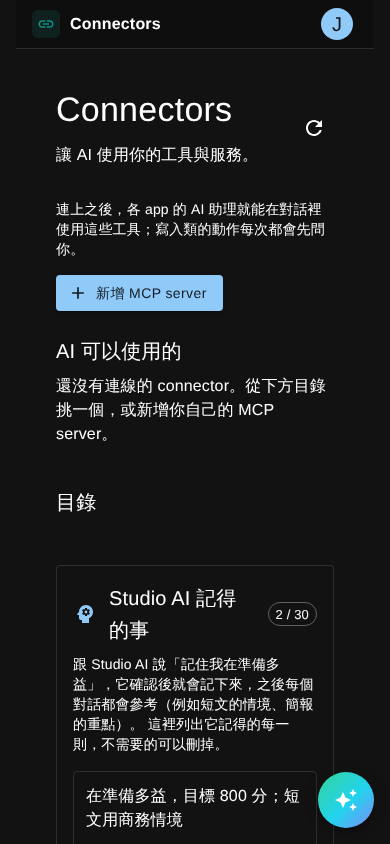
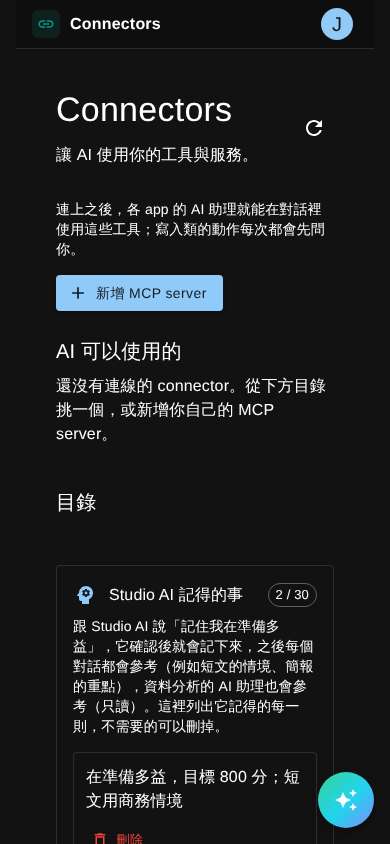
fix: 資料分析 DI 測試補上 IAssistantMemoryService；/connectors 記憶區塊手機標題一行、說明提到資料分析只讀
Claude-Session: https://claude.ai/code/session_01N7G4mfnTNvf894xL2QRhrW

Changed region(s): [[0.1846, 0.6777, 0.8308, 1.0], [0.7077, 0.8934, 0.7692, 0.955]]

diff --git a/jackyaiapp.client/src/Connectors/MemorySection/index.tsx b/jackyaiapp.client/src/Connectors/MemorySection/index.tsx
@@ -10,6 +10,11 @@ import {
 } from '@/apis/assistantMemoryApis';
 import { getApiErrorMessage, getCaughtErrorMessage } from '@/apis/utils/errorMessage';
 
+// One string, so no line break in the source turns into a space between Chinese words.
+const INTRO =
+  '跟 Studio AI 說「記住我在準備多益」，它確認後就會記下來，之後每個對話都會參考（例如短文的情境、簡報的重點），' +
+  '資料分析的 AI 助理也會參考（只讀）。這裡列出它記得的每一則，不需要的可以刪掉。';
+
 interface MemorySectionProps {
   notify: (message: string, severity: 'success' | 'error') => void;
 }
@@ -44,19 +49,33 @@ export default function MemorySection({ notify }: MemorySectionProps) {
       variant="outlined"
       sx={{ p: { xs: 2, sm: 3 }, mb: 5 }}
     >
-      <Stack direction="row" spacing={1.5} sx={{ alignItems: 'center', mb: 1, flexWrap: 'wrap' }}>
+      {/* One line on a phone too: the title is a little smaller there rather than wrapping beside the count. */}
+      <Stack direction="row" spacing={1.5} sx={{ alignItems: 'center', mb: 1 }}>
         <Psychology color="primary" />
-        <Typography id="memory-title" variant="h6" component="h2" sx={{ flex: 1 }}>
+        <Typography
+          id="memory-title"
+          variant="h6"
+          component="h2"
+          sx={{
+            flex: 1,
+            minWidth: 0,
+            fontSize: { xs: '1rem', sm: undefined },
+            whiteSpace: 'nowrap',
+          }}
+        >
           Studio AI 記得的事
         </Typography>
         {list && (
-          <Chip size="small" variant="outlined" label={`${memories.length} / ${list.limit}`} />
+          <Chip
+            size="small"
+            variant="outlined"
+            label={`${memories.length} / ${list.limit}`}
+            sx={{ flexShrink: 0 }}
+          />
         )}
       </Stack>
       <Typography variant="body2" color="text.secondary" sx={{ mb: 2 }}>
-        跟 Studio AI
-        說「記住我在準備多益」，它確認後就會記下來，之後每個對話都會參考（例如短文的情境、簡報的重點）。
-        這裡列出它記得的每一則，不需要的可以刪掉。
+        {INTRO}
       </Typography>
 
       {isLoading ? null : error ? (

diff --git a/JackyAIApp.Server.Tests/Services/SessionUploadLimitsTests.cs b/JackyAIApp.Server.Tests/Services/SessionUploadLimitsTests.cs
@@ -294,6 +294,7 @@ namespace JackyAIApp.Server.Tests.Services
             services.AddSingleton(Mock.Of<JackyAIApp.Server.Services.ICurrentUser>());   // registered elsewhere in the app (DashboardService needs it)
             services.AddSingleton(Mock.Of<JackyAIApp.Server.Services.IUsageLimitService>());   // registered elsewhere in the app (the AI assistant's ask_data charges it)
             services.AddSingleton(Mock.Of<JackyAIApp.Server.Services.Connectors.IConnectorToolSource>());   // registered elsewhere in the app (the AI assistant offers the reader's connectors)
+            services.AddSingleton(Mock.Of<JackyAIApp.Server.Services.Assistant.Memory.IAssistantMemoryService>());   // registered elsewhere in the app (the AI assistant reads the reader's notes)
             services.AddDataAnalysisServices("Server=unused;User ID=u;Password=p;");
             using var provider = services.BuildServiceProvider(new ServiceProviderOptions { ValidateScopes = true, ValidateOnBuild = true });
 

diff --git a/docs/ai-native/SHOWCASE.md b/docs/ai-native/SHOWCASE.md
@@ -17,7 +17,7 @@
 | **「考我今天該複習的單字」→ 回答裡直接出現可以作答的測驗卡**：一次一題、按下立刻顯示對錯與解說，答完自動記進 SM-2 複習排程（+XP） | `review_quiz`（每日挑戰的題型產生器，不花 AI）→ `quiz` 卡片 → 前端呼叫既有的 `review/submit`；模型被告知考哪些字但不准說出答案 | Generative UI 不只顯示結果，還能「互動」：對話裡長出一個小 app |
 | 單字庫頁「用我單字庫裡最近存的字寫一段短文」→ AI 讀你最近存的 5 個字，寫一段把它們**粗體標出**的英文短文＋中文翻譯，按「朗讀」聽它念 | `saved_words`（最近存的字與一個中文意思、總字數；不花 AI 的讀取）＋模型的寫作 | 個人化的 AI 學習：教材是你自己的字 |
 | **選一段字就能問**：在任何頁面選取一句例句、一段分析 → 選取處上方出現「解釋／翻成中文／問 AI」；選一個英文單字是「查字典／加入單字庫」——在 Studio 自己寫的短文裡選一個不認識的字，一鍵加入單字庫。/finance 與 /data-analysis 也一樣，問的是那一頁自己的助理（選「多頭排列」→ 解釋）；作答中的考題不給（不會一選就洩漏答案） | `aiChat/selection`（`SelectionBar`、`selectionStepOf`，Studio 與各 app 的助理共用；選取停 250ms 才出現；`noSelectionAsk` 標出作答中的題目）；頁面上的文字可能是別人寫的，所以請求帶 `quotesPageText`，伺服器把對話標成讀過外部文字，寫入一律先問 | AI 不在旁邊的框裡等你，而是出現在你正在讀的地方（Notion、Arc、Apple Intelligence 式的 inline AI） |
-| **Studio AI 記得你**：說「記住：我在準備多益，目標 800 分，短文用商務情境」→ 確認卡寫出整句筆記 → 之後每個新對話的短文、簡報、出題都照這個方向；「你記得我什麼？」、/connectors 上逐則刪除 | `AssistantMemories`（每則 200 字、每人 30 則）；`remember`（寫入，先問）／`forget`（照抄筆記文字、Destructive）；筆記放在 system prompt 的 `<user_memories>`，標明「不是指令」、`<>` 換成全形，防持久化的 prompt injection | ChatGPT、Claude、Gemini 2025–2026 的「記憶」：個人化的 AI，而且使用者看得到、刪得掉 |
+| **Studio AI 記得你**：說「記住：我在準備多益，目標 800 分，短文用商務情境」→ 確認卡寫出整句筆記 → 之後每個新對話的短文、簡報、出題都照這個方向（資料分析的助理也讀得到，只讀）；「你記得我什麼？」、/connectors 上逐則刪除 | `AssistantMemories`（每則 200 字、每人 30 則）；`remember`（寫入，先問）／`forget`（照抄筆記文字、Destructive）；筆記放在 system prompt 的 `<user_memories>`，標明「不是指令」、`<>` 換成全形，防持久化的 prompt injection | ChatGPT、Claude、Gemini 2025–2026 的「記憶」：個人化的 AI，而且使用者看得到、刪得掉 |
 | 「查 serendipity，加入我的單字庫」→ 單字卡 → **確認卡** → 加入 | `look_up_word`（讀）、`add_word_to_repository`（寫，先確認） | Agent 會動手，所以 human-in-the-loop |
 | 「我的投資組合現在怎麼樣？」→ **持倉表格卡片** + 重點分析 | `portfolio_summary`，照 /portfolio 的估值 | 結果是 UI，不是一坨文字（generative UI） |
 | 「我今天加碼 0050 兩張，均價 185，幫我記下來」（或**貼一張券商成交回報的截圖**）→ **確認卡**「『0050』加 2,000（成交價 185）（存成今天的快照）」→ 允許 → 投資組合更新 | `update_holding`（寫入，先確認）：最新快照改那一筆、存成今天的快照，成本照平均成本法（買進加上付出的錢、賣出保留平均成本）；買進沒說價格就先問、對到兩筆就不猜 | 跨 app 的「用說的記帳」：AI 不只讀你的資料，也幫你維護它 |
@@ -61,7 +61,7 @@
    ![字典頁選一句例句](screenshots/select-sentence-desktop.png)
    ![翻成中文與值得學的字詞](screenshots/select-translate-desktop.png)
    ![朗讀](screenshots/studio-read-aloud-phone.png)
-   **它記得你**：在單字庫頁 ⌘K 說「記住：我在準備多益，目標 800 分，短文用商務情境」→ **確認卡**「記住：『在準備多益，目標 800 分；短文用商務情境』」→ 允許 →「Studio AI 記得的事」卡片。開一個新對話再按「用我單字庫裡最近存的字寫一段短文」→ 短文是商務情境、提到多益（模型讀到的是 system prompt 裡的筆記）。問「你記得我什麼？」會照清單回答；到 /connectors 的「Studio AI 記得的事」看得到每一則，可以刪。
+   **它記得你**：在單字庫頁 ⌘K 說「記住：我在準備多益，目標 800 分，短文用商務情境」→ **確認卡**「記住：『在準備多益，目標 800 分；短文用商務情境』」→ 允許 →「Studio AI 記得的事」卡片。開一個新對話再按「用我單字庫裡最近存的字寫一段短文」→ 短文是商務情境、提到多益（模型讀到的是 system prompt 裡的筆記）。問「你記得我什麼？」會照清單回答；記住「我負責北區業績」後，到 /data-analysis 問「最近業績怎麼樣」，資料分析的助理會先看北區並說明（它只讀筆記、不能改）；到 /connectors 的「Studio AI 記得的事」看得到每一則，可以刪。
    ![記住之前先問](screenshots/studio-memory-desktop.png)
    ![記住了](screenshots/studio-memory-done-desktop.png)
    ![/connectors 的 Studio AI 記得的事](screenshots/connectors-memory-desktop.png)
